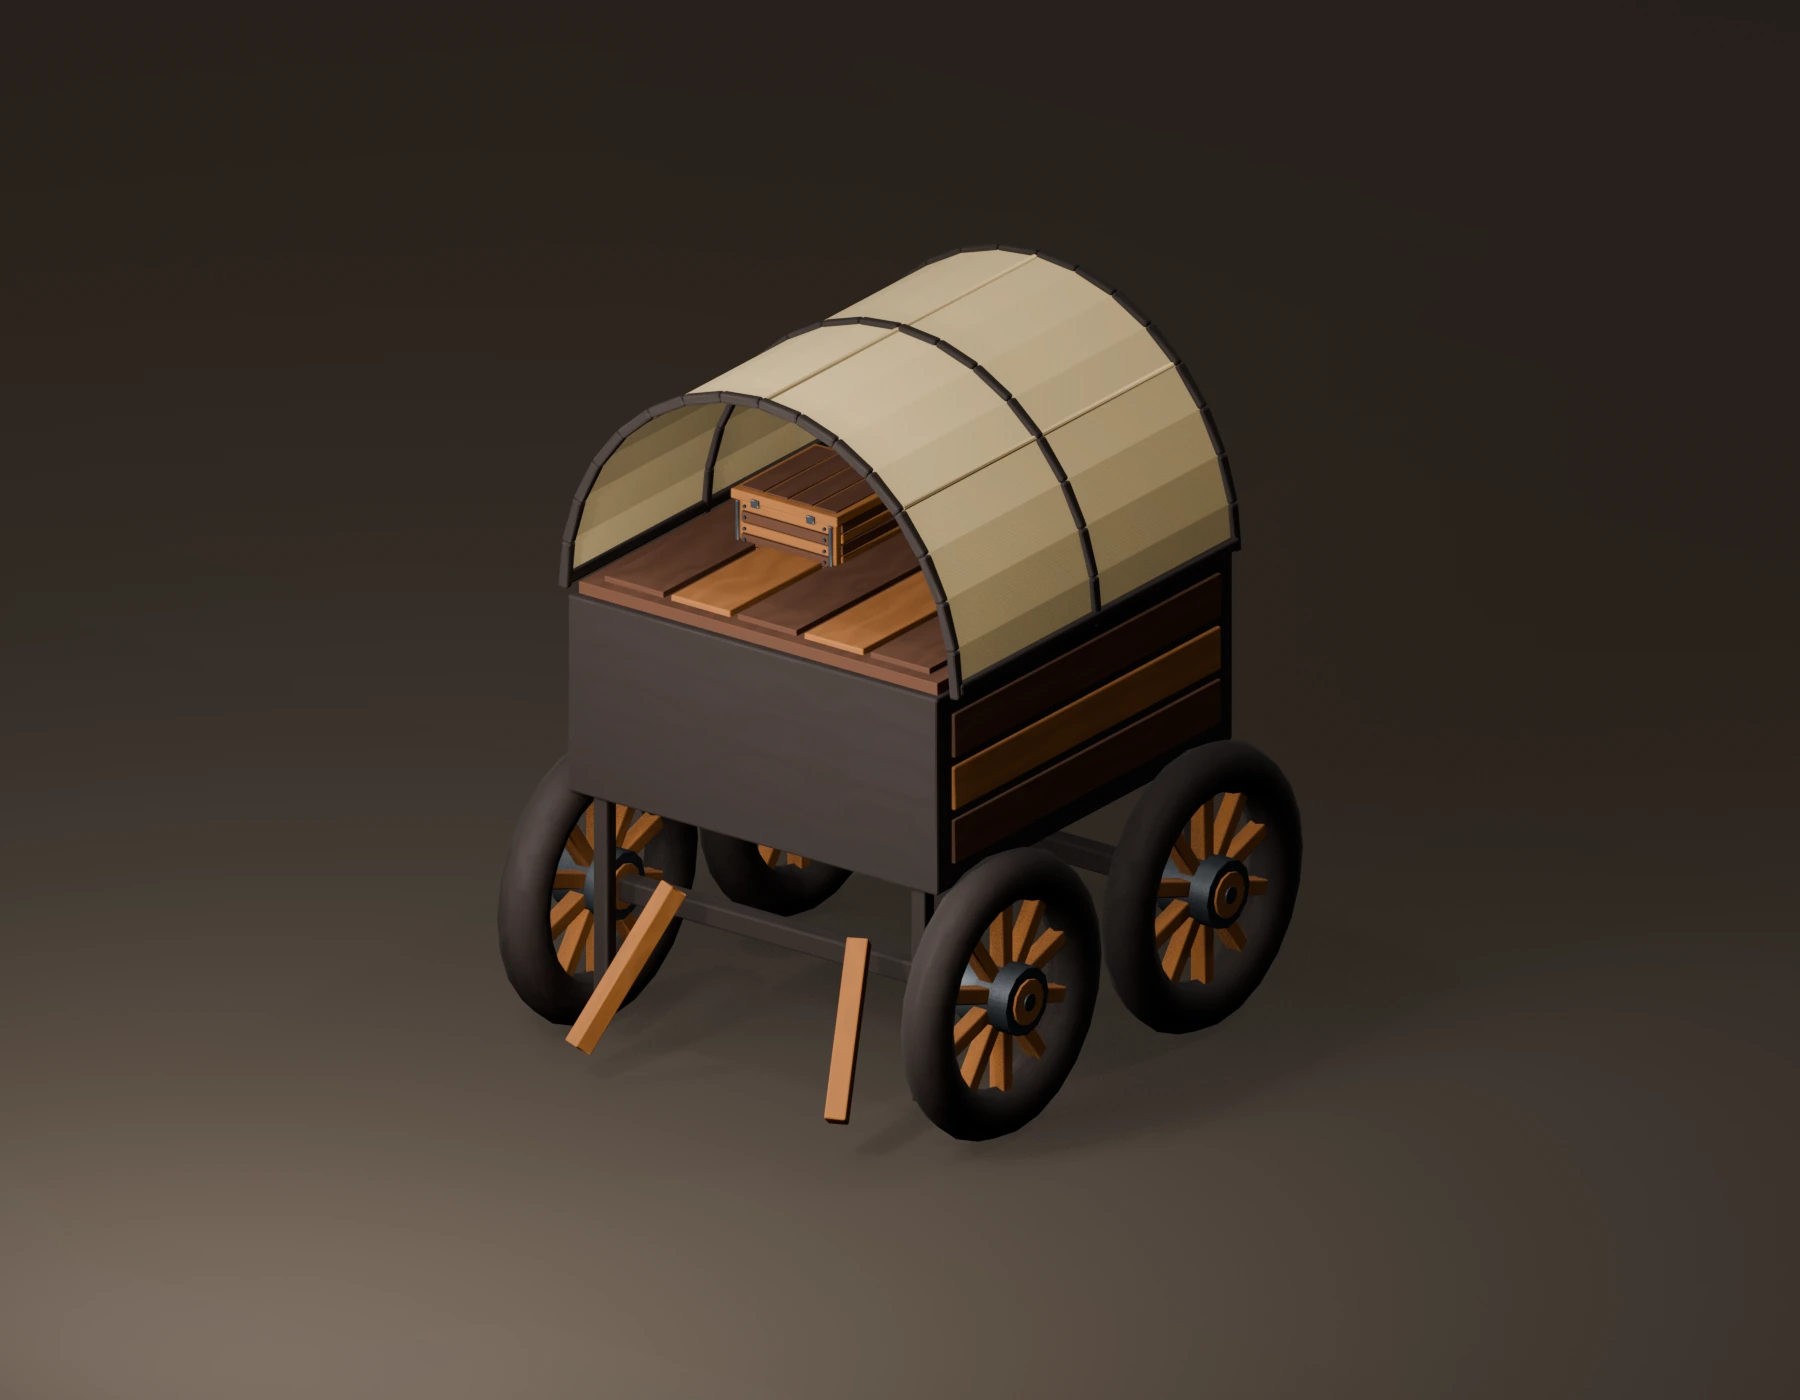
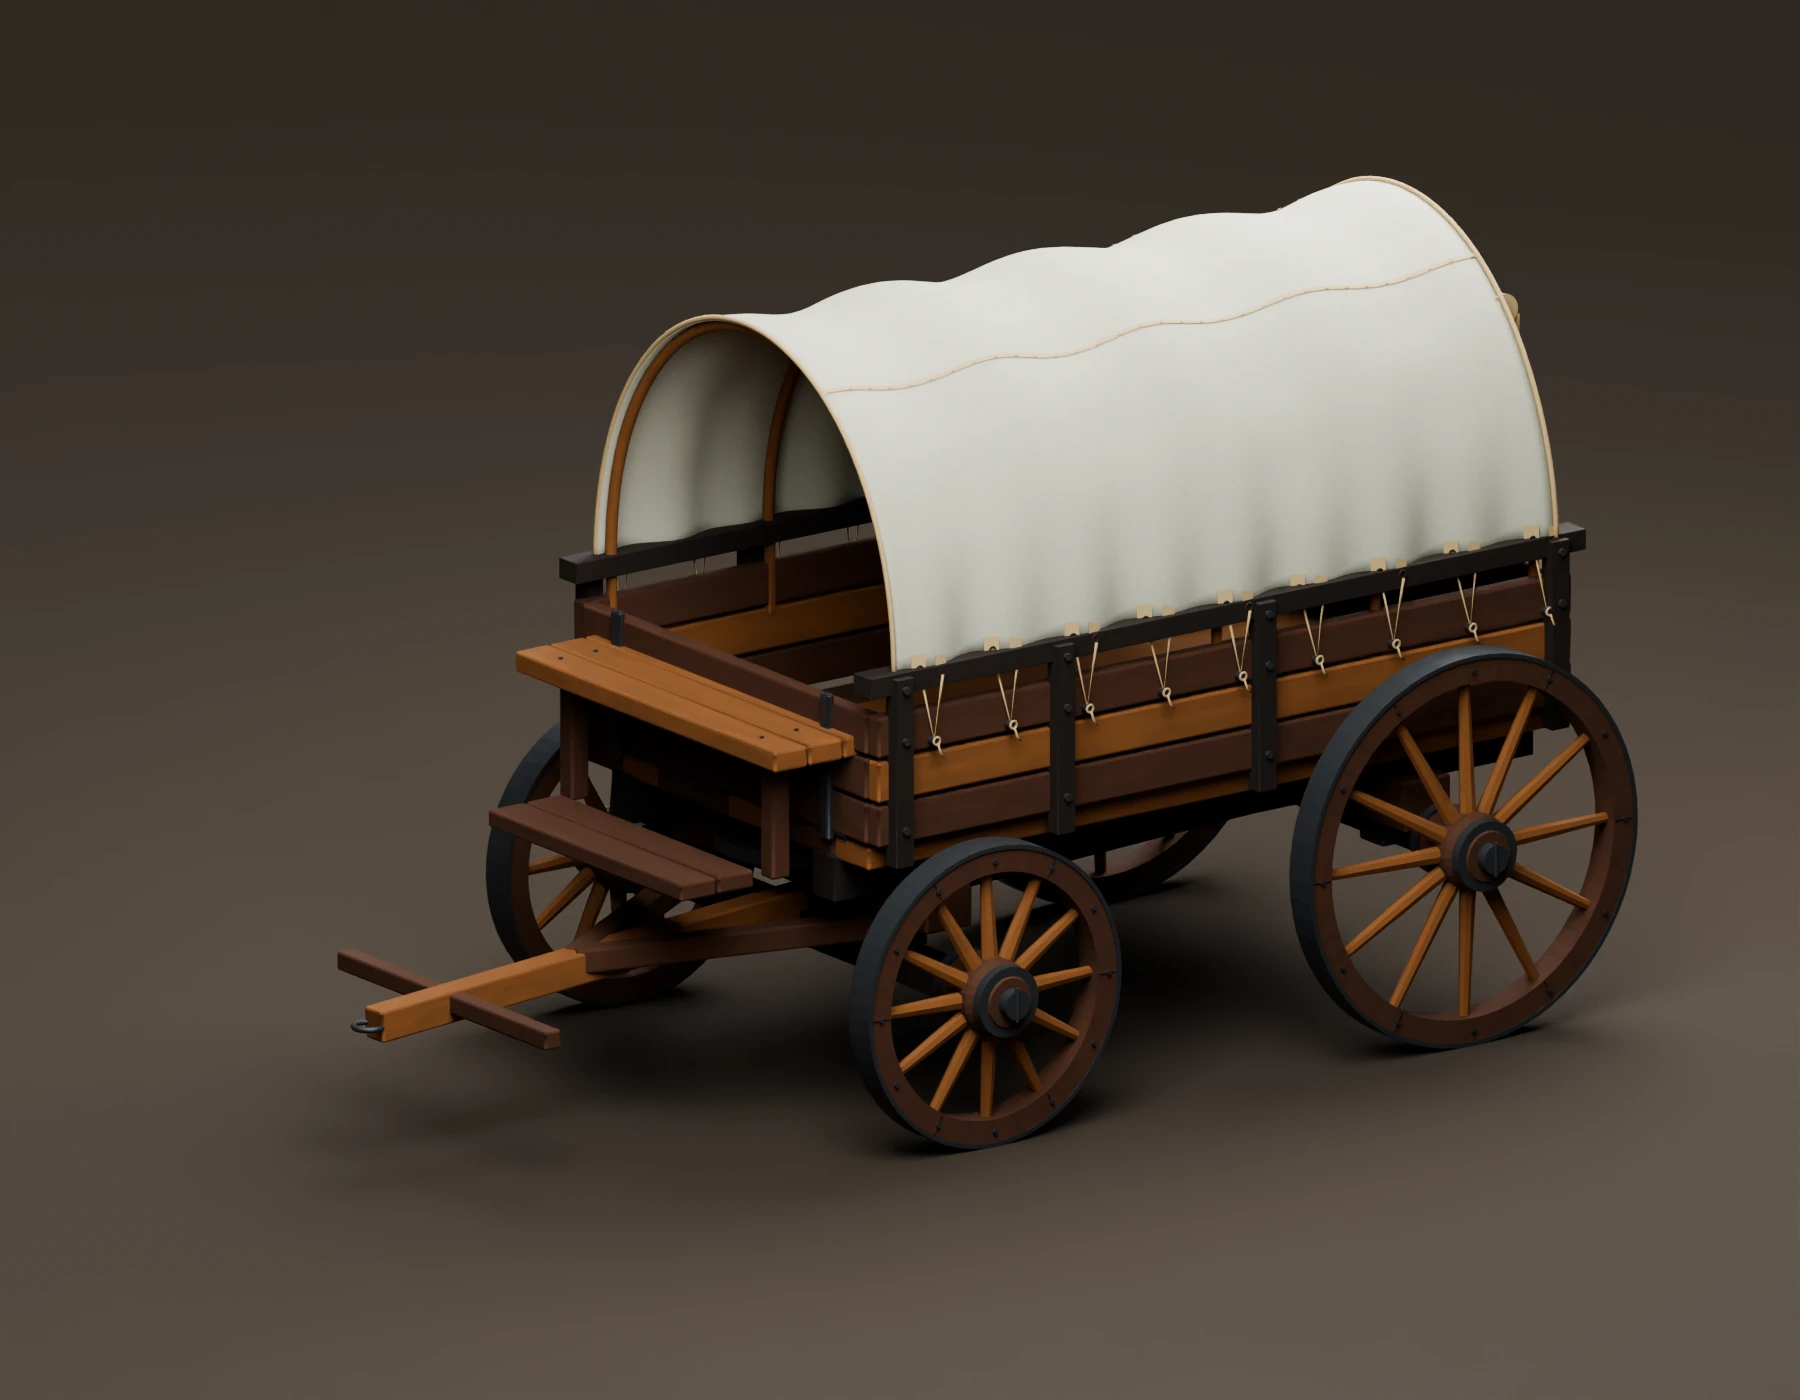
Refresh covered wagon showcase previews

diff --git a/site/index.html b/site/index.html
@@ -196,11 +196,11 @@ footer{padding:18px 0 30px;border-top:1px solid var(--line);color:#87918c;font-s
   </a>
   <div class="caption"><div class="eyebrow">Placeable props</div><h3>Coopered field barrel</h3><p>Close view of fitted timber staves, a five-piece head, and four iron hoops</p><span class="credit">Big Sim original · embedded PBR materials</span></div>
 </article><article class="card" data-category="Placeable props" data-detail="true">
-  <a class="image" href="images/gallery/scenery-wagon-closeup.webp" aria-label="Open full size image: Covered supply wagon">
-    <img src="images/gallery/scenery-wagon-closeup.webp" alt="Covered supply wagon — Close view of timber bodywork, covered hoops, running gear, and cargo" loading="lazy">
+  <a class="image" href="images/gallery/scenery-wagon-closeup.webp?v=wagon-20261023" aria-label="Open full size image: Covered supply wagon">
+    <img src="images/gallery/scenery-wagon-closeup.webp?v=wagon-20261023" alt="Covered supply wagon — Arched canvas cover with tied hems, timber bed, iron fittings, and spoked running gear." loading="lazy">
     <span class="number">18</span>
   </a>
-  <div class="caption"><div class="eyebrow">Placeable props</div><h3>Covered supply wagon</h3><p>Close view of timber bodywork, covered hoops, running gear, and cargo</p><span class="credit">Big Sim original · embedded PBR materials</span></div>
+  <div class="caption"><div class="eyebrow">Placeable props</div><h3>Covered supply wagon</h3><p>Arched canvas cover with tied hems, timber bed, iron fittings, and spoked running gear.</p><span class="credit">Big Sim original · embedded PBR materials</span></div>
 </article><article class="card" data-category="Placeable props" data-detail="true">
   <a class="image" href="images/gallery/scenery-white-tent-closeup.webp" aria-label="Open full size image: Natural canvas wedge tent">
     <img src="images/gallery/scenery-white-tent-closeup.webp" alt="Natural canvas wedge tent — Closed rear gable, narrow entry, gathered side cloth, and fitted guy lines" loading="lazy">
@@ -214,8 +214,8 @@ footer{padding:18px 0 30px;border-top:1px solid var(--line);color:#87918c;font-s
   </a>
   <div class="caption"><div class="eyebrow">Placeable props</div><h3>Red canvas wedge tent</h3><p>Earlier A-frame silhouette with a clear entrance and fitted guy lines</p><span class="credit">Big Sim visual variant · CampTent kind</span></div>
 </article><article class="card" data-category="Placeable props" data-detail="false">
-  <a class="image" href="images/gallery/placeable-props-catalog.webp" aria-label="Open full size image: Placeable prop catalog">
-    <img src="images/gallery/placeable-props-catalog.webp" alt="Placeable prop catalog — All 55 cataloged town, camp, farm, and battlefield prop types" loading="lazy">
+  <a class="image" href="images/gallery/placeable-props-catalog.webp?v=wagon-20261023" aria-label="Open full size image: Placeable prop catalog">
+    <img src="images/gallery/placeable-props-catalog.webp?v=wagon-20261023" alt="Placeable prop catalog — All 55 cataloged town, camp, farm, and battlefield prop types" loading="lazy">
     <span class="number">21</span>
   </a>
   <div class="caption"><div class="eyebrow">Placeable props</div><h3>Placeable prop catalog</h3><p>All 55 cataloged town, camp, farm, and battlefield prop types</p><span class="credit">Big Sim original models · embedded tileable PBR materials</span></div>

diff --git a/site/field-props.html b/site/field-props.html
@@ -65,10 +65,10 @@ footer a{color:var(--gold)}
   </a>
   <div class="caption"><div class="eyebrow">Placeable props</div><h3>Coopered field barrel</h3><p>Close view of fitted timber staves, a five-piece head, and four iron hoops</p><span class="credit">Big Sim original · embedded PBR materials</span></div>
 </article><article class="card">
-  <a class="image" href="images/gallery/scenery-wagon-closeup.webp" aria-label="Open full size image: Covered supply wagon">
-    <img src="images/gallery/scenery-wagon-closeup.webp" alt="Covered supply wagon — Close view of timber bodywork, covered hoops, running gear, and cargo" loading="lazy">
+  <a class="image" href="images/gallery/scenery-wagon-closeup.webp?v=wagon-20261023" aria-label="Open full size image: Covered supply wagon">
+    <img src="images/gallery/scenery-wagon-closeup.webp?v=wagon-20261023" alt="Covered supply wagon — Arched canvas cover with tied hems, timber bed, iron fittings, and spoked running gear." loading="lazy">
   </a>
-  <div class="caption"><div class="eyebrow">Placeable props</div><h3>Covered supply wagon</h3><p>Close view of timber bodywork, covered hoops, running gear, and cargo</p><span class="credit">Big Sim original · embedded PBR materials</span></div>
+  <div class="caption"><div class="eyebrow">Placeable props</div><h3>Covered supply wagon</h3><p>Arched canvas cover with tied hems, timber bed, iron fittings, and spoked running gear.</p><span class="credit">Big Sim original · embedded PBR materials</span></div>
 </article><article class="card">
   <a class="image" href="images/gallery/scenery-white-tent-closeup.webp" aria-label="Open full size image: Natural canvas wedge tent">
     <img src="images/gallery/scenery-white-tent-closeup.webp" alt="Natural canvas wedge tent — Closed rear gable, narrow entry, gathered side cloth, and fitted guy lines" loading="lazy">
@@ -80,8 +80,8 @@ footer a{color:var(--gold)}
   </a>
   <div class="caption"><div class="eyebrow">Placeable props</div><h3>Red canvas wedge tent</h3><p>Earlier A-frame silhouette with a clear entrance and fitted guy lines</p><span class="credit">Big Sim visual variant · CampTent kind</span></div>
 </article><article class="card">
-  <a class="image" href="images/gallery/placeable-props-catalog.webp" aria-label="Open full size image: Placeable prop catalog">
-    <img src="images/gallery/placeable-props-catalog.webp" alt="Placeable prop catalog — All 55 cataloged town, camp, farm, and battlefield prop types" loading="lazy">
+  <a class="image" href="images/gallery/placeable-props-catalog.webp?v=wagon-20261023" aria-label="Open full size image: Placeable prop catalog">
+    <img src="images/gallery/placeable-props-catalog.webp?v=wagon-20261023" alt="Placeable prop catalog — All 55 cataloged town, camp, farm, and battlefield prop types" loading="lazy">
   </a>
   <div class="caption"><div class="eyebrow">Placeable props</div><h3>Placeable prop catalog</h3><p>All 55 cataloged town, camp, farm, and battlefield prop types</p><span class="credit">Big Sim original models · embedded tileable PBR materials</span></div>
 </article><article class="card">

diff --git a/site/model-closeups.html b/site/model-closeups.html
@@ -485,8 +485,8 @@ footer a{color:var(--gold)}
   </a>
   <div class="caption"><div class="eyebrow">Placeable props</div><h3>Cookpot</h3><p>Close-up studio render of the exported Cookpot model.</p><span class="credit">Big Sim model · see CREDITS.md for source notes</span><code class="source">art/placeable_props/models/Cookpot.glb</code></div>
 </article><article class="card">
-  <a class="image" href="images/gallery/model-closeup-art-placeable-props-models-covered-wagon.webp" aria-label="Open full size image: Covered Wagon">
-    <img src="images/gallery/model-closeup-art-placeable-props-models-covered-wagon.webp" alt="Covered Wagon — Close-up studio render of the exported Covered Wagon model." loading="lazy">
+  <a class="image" href="images/gallery/model-closeup-art-placeable-props-models-covered-wagon.webp?v=wagon-20261023" aria-label="Open full size image: Covered Wagon">
+    <img src="images/gallery/model-closeup-art-placeable-props-models-covered-wagon.webp?v=wagon-20261023" alt="Covered Wagon — Close-up studio render of the exported Covered Wagon model." loading="lazy">
   </a>
   <div class="caption"><div class="eyebrow">Placeable props</div><h3>Covered Wagon</h3><p>Close-up studio render of the exported Covered Wagon model.</p><span class="credit">Big Sim model · see CREDITS.md for source notes</span><code class="source">art/placeable_props/models/CoveredWagon.glb</code></div>
 </article><article class="card">
